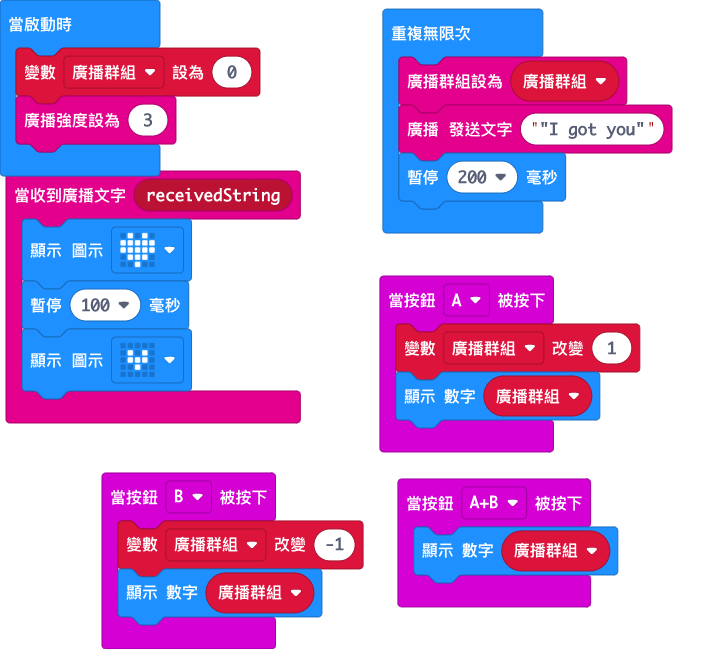
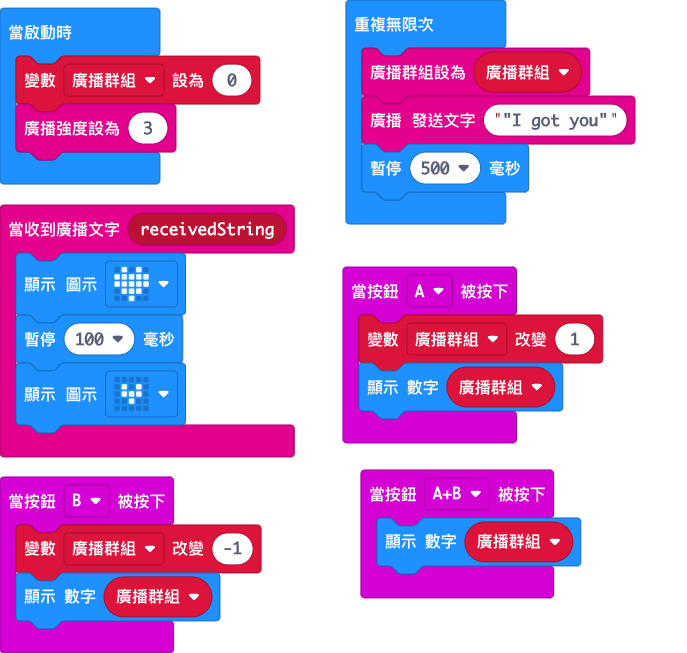
CHG waiting time

diff --git a/main.ts b/main.ts
@@ -20,5 +20,5 @@ radio.setTransmitPower(3)
 basic.forever(function () {
     radio.setGroup(廣播群組)
     radio.sendString("\"I got you\"")
-    basic.pause(200)
+    basic.pause(500)
 })
